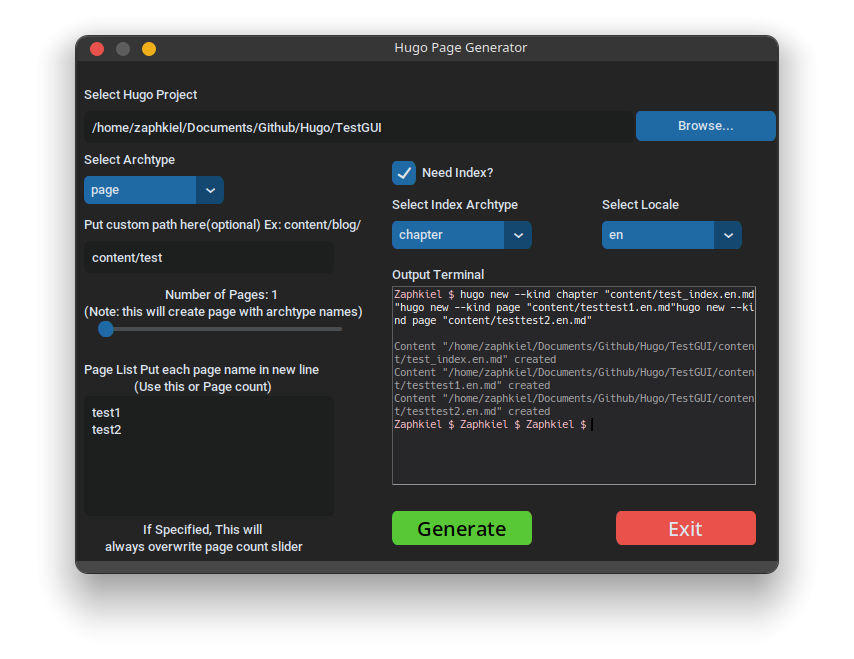
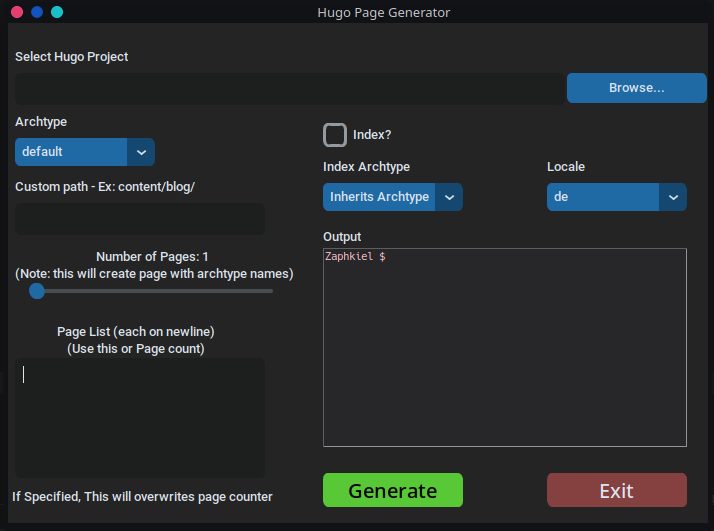
Updated requirements.txt Uncluttered UI Updated Screenshot

diff --git a/main.py b/main.py
@@ -40,7 +40,7 @@ Browse_path_button.place(relx=0.799, rely=0.1)
 # ------------------------ PATH SELECTOR ENDS -------------------------------------------------
 
 # ------------------------ Archetypes SELECTOR Start -------------------------------------------------
-Archtype_label = ctk.CTkLabel(app, text="Select Archtype")
+Archtype_label = ctk.CTkLabel(app, text="Archtype")
 Archtype_label.place(relx=0.01, rely=0.17)
 
 
@@ -88,7 +88,7 @@ ArchType_menu.set("default")
 
 # ------------------------ Custom PATH STARTS -----------------------------------------------------
 
-Custom_Path_label = ctk.CTkLabel(app, text="Put custom path here(optional) Ex: content/blog/")
+Custom_Path_label = ctk.CTkLabel(app, text="Custom path - Ex: content/blog/")
 Custom_Path_label.place(relx=0.01, rely=0.3)
 Custom_Path_textbox = ctk.CTkTextbox(app, width=250, height=30)
 Custom_Path_textbox.place(relx=0.01, rely=0.36)
@@ -107,7 +107,7 @@ def page_slider_event(value):
     global Page_count
     Page_count = int(value)
     Page_count_label.configure(text="Number of Pages: " + str(Page_count) +
-                                    "\n(Note: this will create page with archtype names)")
+                                    "\n(Creates page with archtype names)")
 
 
 Page_count_label = ctk.CTkLabel(app, text="Number of Pages: 1 \n(Note: this will create page with "
@@ -122,15 +122,14 @@ page_count_slider.place(relx=0.03, rely=0.52)
 
 # ------------------------ Page List Starts ------------------------------------------------------
 
-Page_list_label = ctk.CTkLabel(app, text="Page List Put each page name in new line \n"
+Page_list_label = ctk.CTkLabel(app, text="Page List (each on newline)\n"
                                          "(Use this or Page count)")
-Page_list_label.place(relx=0.01, rely=0.6)
+Page_list_label.place(relx=0.07, rely=0.6)
 Page_list_textbox = ctk.CTkTextbox(app, width=250, height=120, activate_scrollbars=True)
 Page_list_textbox.place(relx=0.01, rely=0.67)
 
-Page_list_label_precedence = ctk.CTkLabel(app, text="If Specified, This will \n"
-                                                    "always overwrite page count slider")
-Page_list_label_precedence.place(relx=0.04, rely=0.92)
+Page_list_label_precedence = ctk.CTkLabel(app, text="If Specified, This will overwrites page counter")
+Page_list_label_precedence.place(relx=0.005, rely=0.92)
 
 
 # ------------------------ Page List Ends --------------------------------------------------------
@@ -147,23 +146,23 @@ def locale_menu_callback(choice):
     Locale_menu.set(choice)
 
 
-Locale_label = ctk.CTkLabel(app, text="Select Locale")
-Locale_label.place(relx=0.75, rely=0.26)
+Locale_label = ctk.CTkLabel(app, text="Locale")
+Locale_label.place(relx=0.77, rely=0.26)
 with open("locale_list", "r") as file:
     locale_list = file.readlines()
     locale_list = [locale.strip() for locale in locale_list]
 
 Locale_menu = ctk.CTkOptionMenu(app, values=locale_list, dynamic_resizing=False, command=locale_menu_callback)
-Locale_menu.place(relx=0.75, rely=0.32)
+Locale_menu.place(relx=0.77, rely=0.32)
 # ------------------------ Locale Selector ends -------------------------------------------------
 
 # ------------------------ Index Archtype terminal Starts -------------------------------------------------
 Need_index = ctk.StringVar(value="off")
-Need_index_checkbox = ctk.CTkCheckBox(app, text="Need Index?", variable=Need_index, onvalue="on",
+Need_index_checkbox = ctk.CTkCheckBox(app, text="Index?", variable=Need_index, onvalue="on",
                                       offvalue="off")
 Need_index_checkbox.place(relx=0.45, rely=0.2)
 
-Need_index_Archtype_label = ctk.CTkLabel(app, text="Select Index Archtype")
+Need_index_Archtype_label = ctk.CTkLabel(app, text="Index Archtype")
 Need_index_Archtype_label.place(relx=0.45, rely=0.26)
 
 
@@ -205,11 +204,11 @@ def index_update_archtype_list():
 
 Index_Archtype_menu = ctk.CTkOptionMenu(app, values=get_archtypes(), command=index_archtype_menu_callback)
 Index_Archtype_menu.place(relx=0.45, rely=0.32)
-Index_Archtype_menu.set("Inherited from Archtype")
+Index_Archtype_menu.set("Inherits Archtype")
 
 # ------------------------ Output terminal Starts -------------------------------------------------
 
-Terminal_label = ctk.CTkLabel(app, text="Output Terminal")
+Terminal_label = ctk.CTkLabel(app, text="Output")
 Terminal_label.place(relx=0.45, rely=0.4)
 Terminal = Terminal(app, relief="sunken", background="#272629", foreground="white", font="Hack 8",
                     height=15, width=60, cursor="arrow", takefocus=False)
